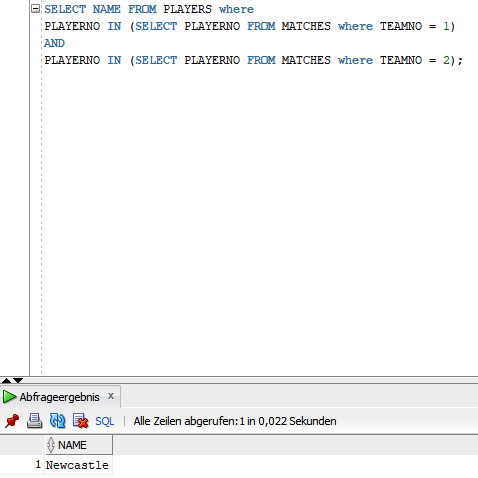
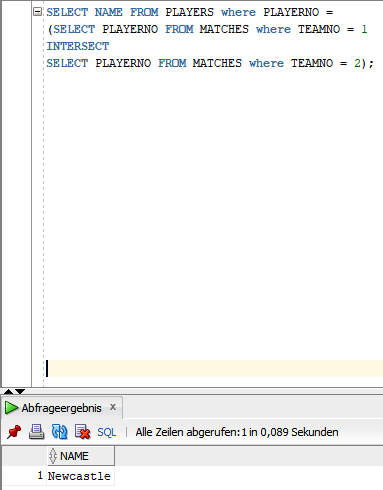
used sets

Changed region(s): [[0.0, 0.0, 1.0, 1.0]]

diff --git a/Readme.md b/Readme.md
@@ -7,10 +7,10 @@
 #### 1. Names of all players who played for both teams 1 and 2
 
 ```sql
-SELECT NAME FROM PLAYERS where
-PLAYERNO IN (SELECT PLAYERNO FROM MATCHES where TEAMNO = 1)
-AND 
-PLAYERNO IN (SELECT PLAYERNO FROM MATCHES where TEAMNO = 2);
+SELECT NAME FROM PLAYERS where PLAYERNO = 
+(SELECT PLAYERNO FROM MATCHES where TEAMNO = 1
+INTERSECT 
+SELECT PLAYERNO FROM MATCHES where TEAMNO = 2);
 ```
 
 ![](./screen1.PNG)
@@ -35,9 +35,10 @@ SELECT * FROM PLAYERS where PLAYERNO IN (SELECT PLAYERNO FROM PENALTIES where AM
 #### 4. Players who have only penalties with an amount higher than 80
 
 ```sql
-SELECT * FROM PLAYERS where PLAYERNO 
-IN (SELECT PLAYERNO FROM PENALTIES where AMOUNT > 80) 
-AND PLAYERNO NOT IN (SELECT PLAYERNO FROM PENALTIES where AMOUNT <= 80);
+SELECT * FROM PLAYERS where PLAYERNO =
+(SELECT PLAYERNO FROM PENALTIES where AMOUNT > 80
+MINUS
+SELECT PLAYERNO FROM PENALTIES where AMOUNT <= 80);
 ```
 
 ![](./screen4.PNG)
@@ -75,9 +76,9 @@ SELECT d.* FROM DEPT d where d.DEPTNO IN
 
 ```sql
 SELECT d.* FROM DEPT d where d.DEPTNO IN
-(SELECT e.DEPTNO FROM EMP e where e.SAL > 1000)
-AND d.DEPTNO NOT IN
-(SELECT DEPTNO FROM EMP where SAL < 1000);
+(SELECT DEPTNO FROM EMP where SAL > 1000
+MINUS
+SELECT DEPTNO FROM EMP where SAL < 1000);
 ```
 
 ![](./screen8.PNG)
